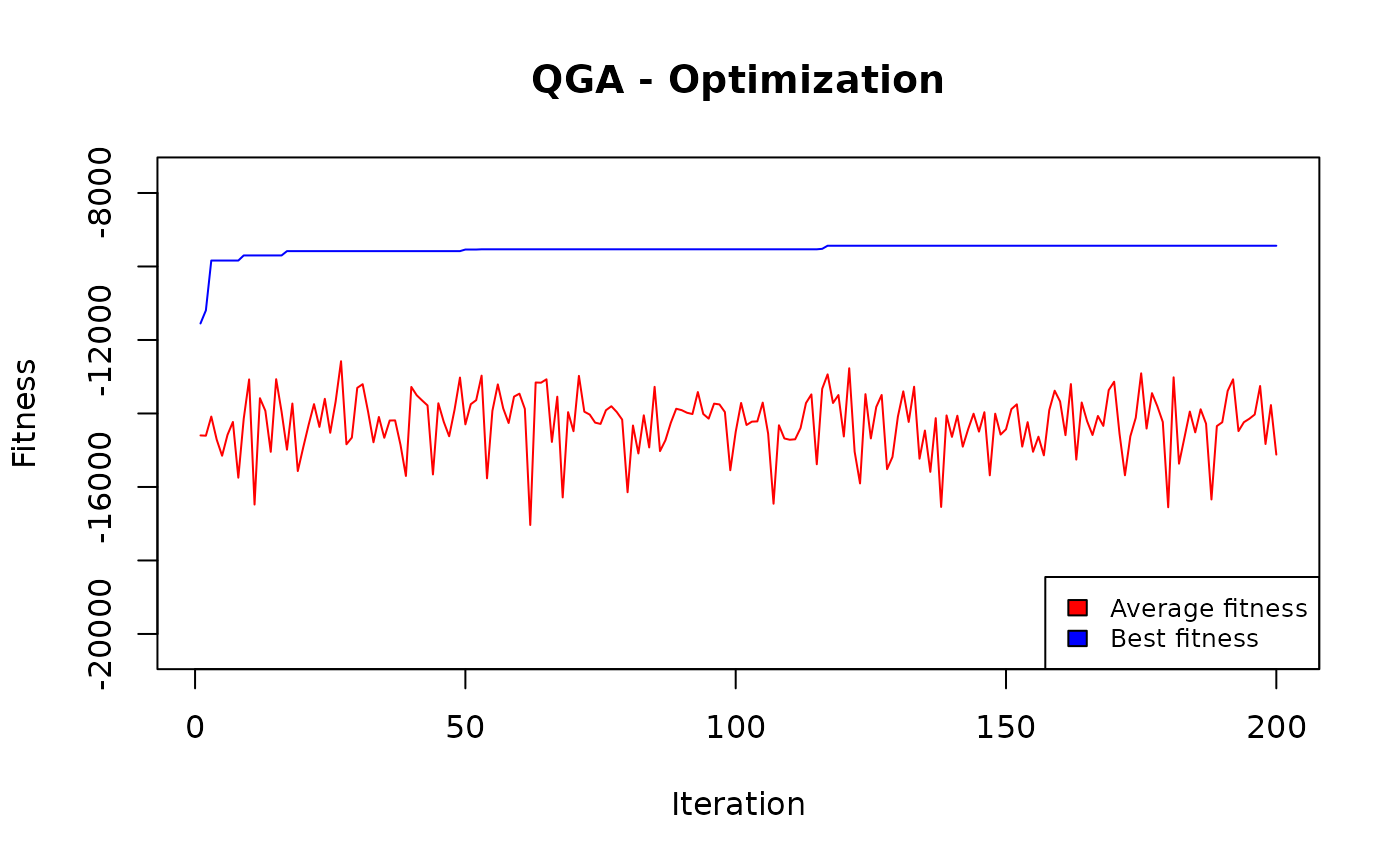
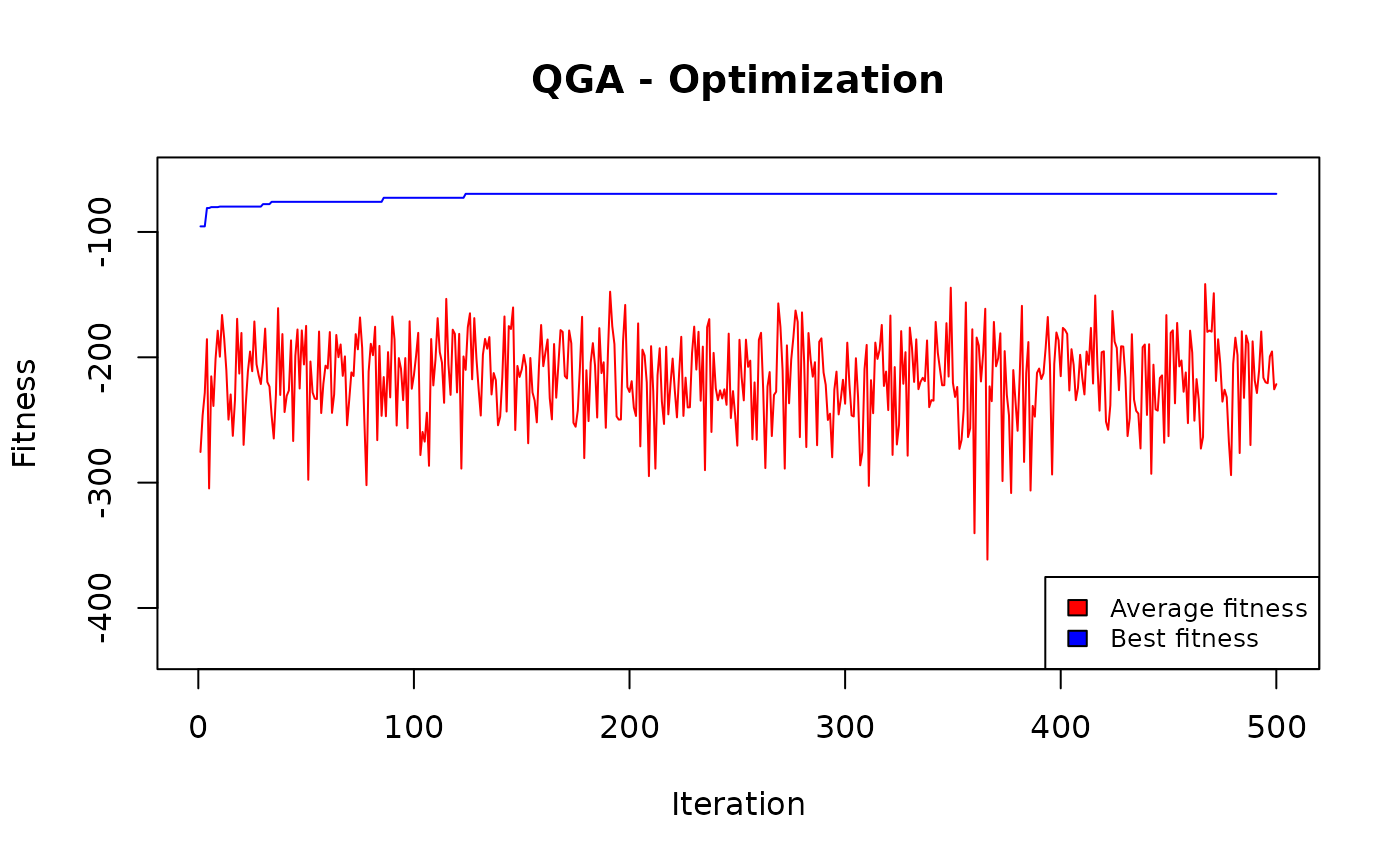
Deploying to gh-pages from @ barcaroli/QGA@d1e9675f5b2e3bba4c48c776dabdf5b6a2a9fc90 🚀

diff --git a/articles/airlines_hubs.html b/articles/airlines_hubs.html
@@ -85,7 +85,7 @@
                         <h4 data-toc-skip class="author">Giulio
 Barcaroli</h4>
             
-            <h4 data-toc-skip class="date">2024-08-31</h4>
+            <h4 data-toc-skip class="date">2024-09-07</h4>
       
       <small class="dont-index">Source: <a href="https://github.com/barcaroli/QGA/blob/main/vignettes/airlines_hubs.Rmd" class="external-link"><code>vignettes/airlines_hubs.Rmd</code></a></small>
       <div class="hidden name"><code>airlines_hubs.Rmd</code></div>
@@ -95,11 +95,8 @@ Barcaroli</h4>
     
     
 <p>In this example, we show how, With the Quantum Genetic Algorithm, it
-is possible to determine the most convenient hubs given a set of 25 USA
+is possible to determine the most convenient hubs, given a set of 25 USA
 airports.</p>
-<div class="section level3">
-<h3 id="input-data">Input data<a class="anchor" aria-label="anchor" href="#input-data"></a>
-</h3>
 <p>As input data, we consider the 25 airports, with their geographical
 coordinates:</p>
 <div class="sourceCode" id="cb1"><pre class="downlit sourceCode r">
@@ -193,42 +190,44 @@ destination airport. The second one is related to the flows:</p>
 <span><span class="co">##  $ V23: num  2704 3719 4284 13618 1067 ...</span></span>
 <span><span class="co">##  $ V24: num  12250 2015 8085 17580 4608 ...</span></span>
 <span><span class="co">##  $ V25: num  16132 565 51895 40708 7050 ...</span></span></code></pre>
-<p>that is, for each origin airport, the estimated number of passenger
+<p>that is, for each origin airport, the estimated number of passengers
 that want to reach the destination airport.</p>
-</div>
-<div class="section level3">
-<h3 id="optimization-by-costs-minimization">Optimization by costs minimization<a class="anchor" aria-label="anchor" href="#optimization-by-costs-minimization"></a>
-</h3>
-<p>As a first exercise, we will use the cost to determine which could be
-the 3 more convenient hubs for the 25 airports.</p>
+<p>We want to minimize the total cost of the optimal solution, to
+determine which could be the three more convenient hubs for the 25
+airports.</p>
 <p>This is the fitness function:</p>
 <div class="sourceCode" id="cb7"><pre class="downlit sourceCode r">
 <code class="sourceCode R"><span><span class="va">airline_hub</span> <span class="op">&lt;-</span> <span class="kw">function</span><span class="op">(</span><span class="va">solution</span>,<span class="va">input</span><span class="op">)</span> <span class="op">{</span></span>
-<span>  <span class="va">obj</span> <span class="op">&lt;-</span> <span class="op">-</span><span class="fu"><a href="https://rdrr.io/r/base/sum.html" class="external-link">sum</a></span><span class="op">(</span><span class="fu"><a href="https://rdrr.io/r/base/apply.html" class="external-link">apply</a></span><span class="op">(</span><span class="va">input</span><span class="op">[</span>,<span class="va">solution</span><span class="op">]</span>, <span class="fl">1</span>, <span class="va">min</span><span class="op">)</span><span class="op">)</span></span>
-<span>  <span class="co"># Penalization</span></span>
-<span>  <span class="co"># if (length(table(solution)) &lt; length(solution)) {</span></span>
-<span>  <span class="co">#  obj &lt;- sum(input)</span></span>
-<span>  <span class="co"># }</span></span>
+<span>  <span class="va">cost</span> <span class="op">&lt;-</span> <span class="va">input</span><span class="op">$</span><span class="va">cost</span></span>
+<span>  <span class="va">flow</span> <span class="op">&lt;-</span> <span class="va">input</span><span class="op">$</span><span class="va">flow</span></span>
+<span>  <span class="va">penalization</span> <span class="op">&lt;-</span> <span class="fu"><a href="https://rdrr.io/r/base/sum.html" class="external-link">sum</a></span><span class="op">(</span><span class="va">cost</span><span class="op">)</span><span class="op">*</span><span class="fl">0.0005</span></span>
+<span>  <span class="va">obj</span> <span class="op">&lt;-</span> <span class="op">-</span><span class="fu"><a href="https://rdrr.io/r/base/sum.html" class="external-link">sum</a></span><span class="op">(</span><span class="fu"><a href="https://rdrr.io/r/base/apply.html" class="external-link">apply</a></span><span class="op">(</span><span class="va">cost</span><span class="op">[</span>,<span class="va">solution</span><span class="op">]</span> <span class="op">*</span> <span class="va">flow</span><span class="op">[</span>,<span class="va">solution</span><span class="op">]</span>, <span class="fl">1</span>, <span class="va">min</span><span class="op">)</span><span class="op">)</span> <span class="op">/</span> <span class="fu"><a href="https://rdrr.io/r/base/sum.html" class="external-link">sum</a></span><span class="op">(</span><span class="va">cost</span><span class="op">)</span></span>
+<span>  <span class="kw">if</span> <span class="op">(</span><span class="fu"><a href="https://rdrr.io/r/base/length.html" class="external-link">length</a></span><span class="op">(</span><span class="fu"><a href="https://rdrr.io/r/base/table.html" class="external-link">table</a></span><span class="op">(</span><span class="va">solution</span><span class="op">)</span><span class="op">)</span> <span class="op">&lt;</span> <span class="fu"><a href="https://rdrr.io/r/base/length.html" class="external-link">length</a></span><span class="op">(</span><span class="va">solution</span><span class="op">)</span><span class="op">)</span> <span class="op">{</span></span>
+<span>    <span class="va">obj</span> <span class="op">&lt;-</span> <span class="va">obj</span> <span class="op">-</span> <span class="va">penalization</span></span>
+<span>  <span class="op">}</span></span>
+<span>  <span class="co"># cat("\nSolution:",solution,"  obj: ",obj)</span></span>
 <span>  <span class="kw"><a href="https://rdrr.io/r/base/function.html" class="external-link">return</a></span><span class="op">(</span><span class="va">obj</span><span class="op">)</span></span>
 <span><span class="op">}</span></span></code></pre></div>
-<p>This function will receive, as input, the cost matrix. The current
-solution, to be evaluated, will select the three columns corresponding
-to the three hubs, and calculate the sum of the costs for each origin
-airport to reach the hub, selecting the minimum. The minus sign is due
-to the fact that we want to minimize the value of the objective
-function.</p>
+<p>This function will receive, as input, the cost matrix and the flow
+matrix. The current solution, to be evaluated, will select the three
+columns corresponding to the three hubs, and calculate the sum of the
+costs for each origin airport to reach the hub, multiplied by the flows
+for each origin airport to reach the hub, selecting the minimum. The
+minus sign is due to the fact that we want to minimize the value of the
+objective function.</p>
 <p>We can now proceed with the optimization. Note that we set the value
 of the genome equal to 3 (the number of the desired hubs), and the
 number of the values to be attributed to each element of the genome is
 set equal to the number of the airports (25).</p>
 <div class="sourceCode" id="cb8"><pre class="downlit sourceCode r">
-<code class="sourceCode R"><span><span class="va">popsize</span> <span class="op">=</span> <span class="fl">20</span></span>
+<code class="sourceCode R"><span><span class="va">input</span> <span class="op">&lt;-</span> <span class="fu"><a href="https://rdrr.io/r/base/list.html" class="external-link">list</a></span><span class="op">(</span>cost<span class="op">=</span><span class="va">cost</span>,flow<span class="op">=</span><span class="va">flow</span><span class="op">)</span></span>
+<span><span class="va">popsize</span> <span class="op">=</span> <span class="fl">20</span></span>
 <span><span class="va">Genome</span> <span class="op">=</span> <span class="fl">3</span> <span class="co"># Number of desired hubs</span></span>
 <span><span class="va">nvalues_sol</span> <span class="op">=</span> <span class="fl">25</span></span>
 <span><span class="fu"><a href="https://rdrr.io/r/base/Random.html" class="external-link">set.seed</a></span><span class="op">(</span><span class="fl">4321</span><span class="op">)</span></span>
 <span><span class="va">solutionQGA</span> <span class="op">&lt;-</span> <span class="fu"><a href="../reference/QGA.html">QGA</a></span><span class="op">(</span></span>
 <span>                <span class="va">popsize</span>,</span>
-<span>                generation_max <span class="op">=</span> <span class="fl">200</span>,</span>
+<span>                generation_max <span class="op">=</span> <span class="fl">500</span>,</span>
 <span>                <span class="va">nvalues_sol</span>,</span>
 <span>                <span class="va">Genome</span>,</span>
 <span>                thetainit <span class="op">=</span> <span class="fl">3.1415926535</span> <span class="op">*</span> <span class="fl">0.025</span>,</span>
@@ -242,15 +241,15 @@ set equal to the number of the airports (25).</p>
 <span>                progress <span class="op">=</span> <span class="cn">FALSE</span>,</span>
 <span>                verbose <span class="op">=</span> <span class="cn">FALSE</span>,</span>
 <span>                eval_fitness <span class="op">=</span> <span class="va">airline_hub</span>,</span>
-<span>                eval_func_inputs <span class="op">=</span> <span class="va">cost</span><span class="op">)</span></span></code></pre></div>
+<span>                eval_func_inputs <span class="op">=</span> <span class="va">input</span><span class="op">)</span></span></code></pre></div>
 <pre><code><span><span class="co">## </span></span>
-<span><span class="co">##  *** Best fitness:  -9435.66</span></span></code></pre>
-<p><img src="airlines_hubs_files/figure-html/unnamed-chunk-5-1.png" width="700">
-The found solution:</p>
+<span><span class="co">##  *** Best fitness:  -69.59383</span></span></code></pre>
+<p><img src="airlines_hubs_files/figure-html/unnamed-chunk-5-1.png" width="700"></p>
+<p>The found solution:</p>
 <div class="sourceCode" id="cb10"><pre class="downlit sourceCode r">
 <code class="sourceCode R"><span><span class="va">solution</span> <span class="op">&lt;-</span> <span class="va">solutionQGA</span><span class="op">[[</span><span class="fl">1</span><span class="op">]</span><span class="op">]</span></span>
 <span><span class="va">cities</span><span class="op">$</span><span class="va">City</span><span class="op">[</span><span class="va">solution</span><span class="op">]</span></span></code></pre></div>
-<pre><code><span><span class="co">## [1] "MEM" "PIT" "LAX"</span></span></code></pre>
+<pre><code><span><span class="co">## [1] "LAX" "MEM" "PHL"</span></span></code></pre>
 <div class="sourceCode" id="cb12"><pre class="downlit sourceCode r">
 <code class="sourceCode R"><span><span class="va">sol</span> <span class="op">&lt;-</span> <span class="va">cost</span><span class="op">[</span>,<span class="va">solution</span><span class="op">]</span> </span>
 <span><span class="va">find_min_column</span> <span class="op">&lt;-</span> <span class="kw">function</span><span class="op">(</span><span class="va">row</span><span class="op">)</span> <span class="op">{</span></span>
@@ -258,20 +257,20 @@ The found solution:</p>
 <span><span class="op">}</span></span>
 <span><span class="va">min_column_vector</span> <span class="op">&lt;-</span> <span class="fu"><a href="https://rdrr.io/r/base/apply.html" class="external-link">apply</a></span><span class="op">(</span><span class="va">sol</span>, <span class="fl">1</span>, <span class="va">find_min_column</span><span class="op">)</span></span>
 <span><span class="fu"><a href="https://rdrr.io/r/base/print.html" class="external-link">print</a></span><span class="op">(</span><span class="va">min_column_vector</span><span class="op">)</span></span></code></pre></div>
-<pre><code><span><span class="co">##  [1] 1 2 2 2 2 2 1 3 2 1 1 3 1 1 1 1 2 2 3 2 1 3 3 1 2</span></span></code></pre>
+<pre><code><span><span class="co">##  [1] 2 3 3 2 2 3 2 1 3 2 2 1 2 2 2 2 3 3 1 3 2 1 1 2 3</span></span></code></pre>
 <div class="sourceCode" id="cb14"><pre class="downlit sourceCode r">
 <code class="sourceCode R"><span><span class="va">cities</span><span class="op">$</span><span class="va">Hub</span> <span class="op">&lt;-</span> <span class="va">cities</span><span class="op">$</span><span class="va">City</span><span class="op">[</span><span class="va">solution</span><span class="op">]</span><span class="op">[</span><span class="va">min_column_vector</span><span class="op">]</span></span>
 <span><span class="fu"><a href="https://rdrr.io/r/base/print.html" class="external-link">print</a></span><span class="op">(</span><span class="va">cities</span><span class="op">[</span>,<span class="fu"><a href="https://rdrr.io/r/base/c.html" class="external-link">c</a></span><span class="op">(</span><span class="fl">2</span>,<span class="fl">5</span><span class="op">)</span><span class="op">]</span><span class="op">)</span></span></code></pre></div>
 <pre><code><span><span class="co">##    City Hub</span></span>
 <span><span class="co">## 1   ATL MEM</span></span>
-<span><span class="co">## 2   BWI PIT</span></span>
-<span><span class="co">## 3   BOS PIT</span></span>
-<span><span class="co">## 4   ORD PIT</span></span>
-<span><span class="co">## 5   CVG PIT</span></span>
-<span><span class="co">## 6   CLE PIT</span></span>
+<span><span class="co">## 2   BWI PHL</span></span>
+<span><span class="co">## 3   BOS PHL</span></span>
+<span><span class="co">## 4   ORD MEM</span></span>
+<span><span class="co">## 5   CVG MEM</span></span>
+<span><span class="co">## 6   CLE PHL</span></span>
 <span><span class="co">## 7   DFW MEM</span></span>
 <span><span class="co">## 8   DEN LAX</span></span>
-<span><span class="co">## 9   DET PIT</span></span>
+<span><span class="co">## 9   DET PHL</span></span>
 <span><span class="co">## 10  IAH MEM</span></span>
 <span><span class="co">## 11  MCI MEM</span></span>
 <span><span class="co">## 12  LAX LAX</span></span>
@@ -279,15 +278,15 @@ The found solution:</p>
 <span><span class="co">## 14  MIA MEM</span></span>
 <span><span class="co">## 15  MSP MEM</span></span>
 <span><span class="co">## 16  MSY MEM</span></span>
-<span><span class="co">## 17  LGA PIT</span></span>
-<span><span class="co">## 18  PHL PIT</span></span>
+<span><span class="co">## 17  LGA PHL</span></span>
+<span><span class="co">## 18  PHL PHL</span></span>
 <span><span class="co">## 19  PHX LAX</span></span>
-<span><span class="co">## 20  PIT PIT</span></span>
+<span><span class="co">## 20  PIT PHL</span></span>
 <span><span class="co">## 21  STL MEM</span></span>
 <span><span class="co">## 22  SFO LAX</span></span>
 <span><span class="co">## 23  SEA LAX</span></span>
 <span><span class="co">## 24  TPA MEM</span></span>
-<span><span class="co">## 25  DCA PIT</span></span></code></pre>
+<span><span class="co">## 25  DCA PHL</span></span></code></pre>
 <p>We can plot them on a map:</p>
 <div class="sourceCode" id="cb16"><pre class="downlit sourceCode r">
 <code class="sourceCode R"><span><span class="kw">if</span> <span class="op">(</span><span class="op">!</span><span class="kw"><a href="https://rdrr.io/r/base/library.html" class="external-link">require</a></span><span class="op">(</span><span class="va"><a href="https://tidyverse.tidyverse.org" class="external-link">tidyverse</a></span><span class="op">)</span><span class="op">)</span> <span class="fu"><a href="https://rdrr.io/r/utils/install.packages.html" class="external-link">install.packages</a></span><span class="op">(</span><span class="st">"tidyverse"</span>, dependencies<span class="op">=</span><span class="cn">TRUE</span><span class="op">)</span></span>
@@ -325,109 +324,6 @@ The found solution:</p>
 <span>  <span class="fu"><a href="https://ggplot2.tidyverse.org/reference/theme.html" class="external-link">theme</a></span><span class="op">(</span>plot.title <span class="op">=</span> <span class="fu"><a href="https://ggplot2.tidyverse.org/reference/element.html" class="external-link">element_text</a></span><span class="op">(</span>hjust <span class="op">=</span> <span class="fl">0.5</span>, size <span class="op">=</span> <span class="fl">16</span>, face <span class="op">=</span> <span class="st">"bold"</span><span class="op">)</span><span class="op">)</span></span>
 <span><span class="fu"><a href="https://rdrr.io/r/base/print.html" class="external-link">print</a></span><span class="op">(</span><span class="va">gg</span><span class="op">)</span></span></code></pre></div>
 <p><img src="airlines_hubs_files/figure-html/unnamed-chunk-7-1.png" width="700"></p>
-</div>
-<div class="section level3">
-<h3 id="optimization-by-flows-maximization">Optimization by flows maximization<a class="anchor" aria-label="anchor" href="#optimization-by-flows-maximization"></a>
-</h3>
-<p>Alternatively, we can use the flows instead of the cost.</p>
-<p>To do that, we do not need to modify the fitness function, even if
-now we want to maximize the flows instead than minimizing the cost. We
-just need to consider the negative values of the flows:</p>
-<div class="sourceCode" id="cb17"><pre class="downlit sourceCode r">
-<code class="sourceCode R"><span><span class="fu"><a href="https://rdrr.io/r/base/Random.html" class="external-link">set.seed</a></span><span class="op">(</span><span class="fl">4321</span><span class="op">)</span></span>
-<span><span class="va">solutionQGA</span> <span class="op">&lt;-</span> <span class="fu"><a href="../reference/QGA.html">QGA</a></span><span class="op">(</span></span>
-<span>                <span class="va">popsize</span>,</span>
-<span>                generation_max <span class="op">=</span> <span class="fl">200</span>,</span>
-<span>                <span class="va">nvalues_sol</span>,</span>
-<span>                <span class="va">Genome</span>,</span>
-<span>                thetainit <span class="op">=</span> <span class="fl">3.1415926535</span> <span class="op">*</span> <span class="fl">0.025</span>,</span>
-<span>                thetaend <span class="op">=</span> <span class="fl">3.1415926535</span> <span class="op">*</span> <span class="fl">0.005</span>,</span>
-<span>                pop_mutation_rate_init <span class="op">=</span> <span class="fl">3</span><span class="op">/</span><span class="op">(</span><span class="va">popsize</span> <span class="op">+</span> <span class="fl">1</span><span class="op">)</span>,</span>
-<span>                pop_mutation_rate_end <span class="op">=</span> <span class="fl">1</span><span class="op">/</span><span class="op">(</span><span class="va">popsize</span> <span class="op">+</span> <span class="fl">1</span><span class="op">)</span>,</span>
-<span>                mutation_rate_init <span class="op">=</span> <span class="fl">3</span><span class="op">/</span><span class="op">(</span><span class="va">Genome</span> <span class="op">+</span> <span class="fl">1</span><span class="op">)</span>,</span>
-<span>                mutation_rate_end <span class="op">=</span> <span class="fl">1</span><span class="op">/</span><span class="op">(</span><span class="va">Genome</span> <span class="op">+</span> <span class="fl">1</span><span class="op">)</span>,</span>
-<span>                mutation_flag <span class="op">=</span> <span class="cn">TRUE</span>,</span>
-<span>                plotting <span class="op">=</span> <span class="cn">FALSE</span>,</span>
-<span>                progress <span class="op">=</span> <span class="cn">FALSE</span>,</span>
-<span>                verbose <span class="op">=</span> <span class="cn">FALSE</span>,</span>
-<span>                eval_fitness <span class="op">=</span> <span class="va">airline_hub</span>,</span>
-<span>                eval_func_inputs <span class="op">=</span> <span class="op">-</span><span class="va">flow</span><span class="op">)</span></span></code></pre></div>
-<pre><code><span><span class="co">## </span></span>
-<span><span class="co">##  *** Best fitness:  1762214</span></span></code></pre>
-<p><img src="airlines_hubs_files/figure-html/unnamed-chunk-8-1.png" width="700"></p>
-<p>The solution is:</p>
-<div class="sourceCode" id="cb19"><pre class="downlit sourceCode r">
-<code class="sourceCode R"><span><span class="va">solution</span> <span class="op">&lt;-</span> <span class="va">solutionQGA</span><span class="op">[[</span><span class="fl">1</span><span class="op">]</span><span class="op">]</span></span>
-<span><span class="va">cities</span><span class="op">$</span><span class="va">City</span><span class="op">[</span><span class="va">solution</span><span class="op">]</span></span></code></pre></div>
-<pre><code><span><span class="co">## [1] "LGA" "ORD" "LAX"</span></span></code></pre>
-<div class="sourceCode" id="cb21"><pre class="downlit sourceCode r">
-<code class="sourceCode R"><span><span class="va">sol</span> <span class="op">&lt;-</span> <span class="op">-</span><span class="va">flow</span><span class="op">[</span>,<span class="va">solution</span><span class="op">]</span> </span>
-<span><span class="va">find_min_column</span> <span class="op">&lt;-</span> <span class="kw">function</span><span class="op">(</span><span class="va">row</span><span class="op">)</span> <span class="op">{</span></span>
-<span>  <span class="fu"><a href="https://rdrr.io/r/base/which.min.html" class="external-link">which.min</a></span><span class="op">(</span><span class="va">row</span><span class="op">)</span></span>
-<span><span class="op">}</span></span>
-<span><span class="va">min_column_vector</span> <span class="op">&lt;-</span> <span class="fu"><a href="https://rdrr.io/r/base/apply.html" class="external-link">apply</a></span><span class="op">(</span><span class="va">sol</span>, <span class="fl">1</span>, <span class="va">find_min_column</span><span class="op">)</span></span>
-<span><span class="fu"><a href="https://rdrr.io/r/base/print.html" class="external-link">print</a></span><span class="op">(</span><span class="va">min_column_vector</span><span class="op">)</span></span></code></pre></div>
-<pre><code><span><span class="co">##  [1] 1 1 1 1 1 1 1 3 1 1 2 1 2 1 2 1 2 2 3 1 2 3 3 1 1</span></span></code></pre>
-<div class="sourceCode" id="cb23"><pre class="downlit sourceCode r">
-<code class="sourceCode R"><span><span class="va">cities</span><span class="op">$</span><span class="va">Hub</span> <span class="op">&lt;-</span> <span class="va">cities</span><span class="op">$</span><span class="va">City</span><span class="op">[</span><span class="va">solution</span><span class="op">]</span><span class="op">[</span><span class="va">min_column_vector</span><span class="op">]</span></span>
-<span><span class="fu"><a href="https://rdrr.io/r/base/print.html" class="external-link">print</a></span><span class="op">(</span><span class="va">cities</span><span class="op">[</span>,<span class="fu"><a href="https://rdrr.io/r/base/c.html" class="external-link">c</a></span><span class="op">(</span><span class="fl">2</span>,<span class="fl">5</span><span class="op">)</span><span class="op">]</span><span class="op">)</span></span></code></pre></div>
-<pre><code><span><span class="co">##    City Hub</span></span>
-<span><span class="co">## 1   ATL LGA</span></span>
-<span><span class="co">## 2   BWI LGA</span></span>
-<span><span class="co">## 3   BOS LGA</span></span>
-<span><span class="co">## 4   ORD LGA</span></span>
-<span><span class="co">## 5   CVG LGA</span></span>
-<span><span class="co">## 6   CLE LGA</span></span>
-<span><span class="co">## 7   DFW LGA</span></span>
-<span><span class="co">## 8   DEN LAX</span></span>
-<span><span class="co">## 9   DET LGA</span></span>
-<span><span class="co">## 10  IAH LGA</span></span>
-<span><span class="co">## 11  MCI ORD</span></span>
-<span><span class="co">## 12  LAX LGA</span></span>
-<span><span class="co">## 13  MEM ORD</span></span>
-<span><span class="co">## 14  MIA LGA</span></span>
-<span><span class="co">## 15  MSP ORD</span></span>
-<span><span class="co">## 16  MSY LGA</span></span>
-<span><span class="co">## 17  LGA ORD</span></span>
-<span><span class="co">## 18  PHL ORD</span></span>
-<span><span class="co">## 19  PHX LAX</span></span>
-<span><span class="co">## 20  PIT LGA</span></span>
-<span><span class="co">## 21  STL ORD</span></span>
-<span><span class="co">## 22  SFO LAX</span></span>
-<span><span class="co">## 23  SEA LAX</span></span>
-<span><span class="co">## 24  TPA LGA</span></span>
-<span><span class="co">## 25  DCA LGA</span></span></code></pre>
-<div class="sourceCode" id="cb25"><pre class="downlit sourceCode r">
-<code class="sourceCode R"><span><span class="va">connections</span> <span class="op">&lt;-</span> <span class="va">cities</span> <span class="op"><a href="https://magrittr.tidyverse.org/reference/pipe.html" class="external-link">%&gt;%</a></span></span>
-<span>  <span class="fu"><a href="https://dplyr.tidyverse.org/reference/mutate-joins.html" class="external-link">left_join</a></span><span class="op">(</span><span class="va">cities</span> <span class="op"><a href="https://magrittr.tidyverse.org/reference/pipe.html" class="external-link">%&gt;%</a></span> <span class="fu"><a href="https://dplyr.tidyverse.org/reference/select.html" class="external-link">select</a></span><span class="op">(</span><span class="va">City</span>, <span class="va">Lat</span>, <span class="va">Long</span><span class="op">)</span>, by <span class="op">=</span> <span class="fu"><a href="https://rdrr.io/r/base/c.html" class="external-link">c</a></span><span class="op">(</span><span class="st">"Hub"</span> <span class="op">=</span> <span class="st">"City"</span><span class="op">)</span><span class="op">)</span> <span class="op"><a href="https://magrittr.tidyverse.org/reference/pipe.html" class="external-link">%&gt;%</a></span></span>
-<span>  <span class="fu"><a href="https://dplyr.tidyverse.org/reference/rename.html" class="external-link">rename</a></span><span class="op">(</span>Hub_Lat <span class="op">=</span> <span class="va">Lat.y</span>, Hub_Long <span class="op">=</span> <span class="va">Long.y</span><span class="op">)</span> <span class="op"><a href="https://magrittr.tidyverse.org/reference/pipe.html" class="external-link">%&gt;%</a></span></span>
-<span>  <span class="fu"><a href="https://dplyr.tidyverse.org/reference/select.html" class="external-link">select</a></span><span class="op">(</span><span class="va">City</span>, Lat <span class="op">=</span> <span class="va">Lat.x</span>, Long <span class="op">=</span> <span class="va">Long.x</span>, <span class="va">Hub</span>, <span class="va">Hub_Lat</span>, <span class="va">Hub_Long</span><span class="op">)</span></span>
-<span><span class="va">hubs</span> <span class="op">&lt;-</span> <span class="fu"><a href="https://rdrr.io/r/base/unique.html" class="external-link">unique</a></span><span class="op">(</span><span class="va">cities</span><span class="op">$</span><span class="va">Hub</span><span class="op">)</span></span>
-<span><span class="va">hub_connections</span> <span class="op">&lt;-</span> <span class="fu"><a href="https://rdrr.io/r/base/expand.grid.html" class="external-link">expand.grid</a></span><span class="op">(</span>Hub1 <span class="op">=</span> <span class="va">hubs</span>, Hub2 <span class="op">=</span> <span class="va">hubs</span>, stringsAsFactors <span class="op">=</span> <span class="cn">FALSE</span><span class="op">)</span> <span class="op"><a href="https://magrittr.tidyverse.org/reference/pipe.html" class="external-link">%&gt;%</a></span></span>
-<span>  <span class="fu"><a href="https://dplyr.tidyverse.org/reference/filter.html" class="external-link">filter</a></span><span class="op">(</span><span class="va">Hub1</span> <span class="op">&lt;</span> <span class="va">Hub2</span><span class="op">)</span> <span class="op"><a href="https://magrittr.tidyverse.org/reference/pipe.html" class="external-link">%&gt;%</a></span>  <span class="co"># Evita duplicati e auto-connessioni</span></span>
-<span>  <span class="fu"><a href="https://dplyr.tidyverse.org/reference/mutate-joins.html" class="external-link">left_join</a></span><span class="op">(</span><span class="va">cities</span> <span class="op"><a href="https://magrittr.tidyverse.org/reference/pipe.html" class="external-link">%&gt;%</a></span> <span class="fu"><a href="https://dplyr.tidyverse.org/reference/select.html" class="external-link">select</a></span><span class="op">(</span><span class="va">City</span>, <span class="va">Lat</span>, <span class="va">Long</span><span class="op">)</span>, by <span class="op">=</span> <span class="fu"><a href="https://rdrr.io/r/base/c.html" class="external-link">c</a></span><span class="op">(</span><span class="st">"Hub1"</span> <span class="op">=</span> <span class="st">"City"</span><span class="op">)</span><span class="op">)</span> <span class="op"><a href="https://magrittr.tidyverse.org/reference/pipe.html" class="external-link">%&gt;%</a></span></span>
-<span>  <span class="fu"><a href="https://dplyr.tidyverse.org/reference/rename.html" class="external-link">rename</a></span><span class="op">(</span>Lat1 <span class="op">=</span> <span class="va">Lat</span>, Long1 <span class="op">=</span> <span class="va">Long</span><span class="op">)</span> <span class="op"><a href="https://magrittr.tidyverse.org/reference/pipe.html" class="external-link">%&gt;%</a></span></span>
-<span>  <span class="fu"><a href="https://dplyr.tidyverse.org/reference/mutate-joins.html" class="external-link">left_join</a></span><span class="op">(</span><span class="va">cities</span> <span class="op"><a href="https://magrittr.tidyverse.org/reference/pipe.html" class="external-link">%&gt;%</a></span> <span class="fu"><a href="https://dplyr.tidyverse.org/reference/select.html" class="external-link">select</a></span><span class="op">(</span><span class="va">City</span>, <span class="va">Lat</span>, <span class="va">Long</span><span class="op">)</span>, by <span class="op">=</span> <span class="fu"><a href="https://rdrr.io/r/base/c.html" class="external-link">c</a></span><span class="op">(</span><span class="st">"Hub2"</span> <span class="op">=</span> <span class="st">"City"</span><span class="op">)</span><span class="op">)</span> <span class="op"><a href="https://magrittr.tidyverse.org/reference/pipe.html" class="external-link">%&gt;%</a></span></span>
-<span>  <span class="fu"><a href="https://dplyr.tidyverse.org/reference/rename.html" class="external-link">rename</a></span><span class="op">(</span>Lat2 <span class="op">=</span> <span class="va">Lat</span>, Long2 <span class="op">=</span> <span class="va">Long</span><span class="op">)</span></span>
-<span><span class="va">usa_map</span> <span class="op">&lt;-</span> <span class="fu"><a href="https://ggplot2.tidyverse.org/reference/map_data.html" class="external-link">map_data</a></span><span class="op">(</span><span class="st">"state"</span><span class="op">)</span></span>
-<span><span class="va">gg</span> <span class="op">&lt;-</span> <span class="fu"><a href="https://ggplot2.tidyverse.org/reference/ggplot.html" class="external-link">ggplot</a></span><span class="op">(</span><span class="op">)</span> <span class="op">+</span></span>
-<span>  <span class="fu"><a href="https://ggplot2.tidyverse.org/reference/geom_polygon.html" class="external-link">geom_polygon</a></span><span class="op">(</span>data <span class="op">=</span> <span class="va">usa_map</span>, <span class="fu"><a href="https://ggplot2.tidyverse.org/reference/aes.html" class="external-link">aes</a></span><span class="op">(</span>x <span class="op">=</span> <span class="va">long</span>, y <span class="op">=</span> <span class="va">lat</span>, group <span class="op">=</span> <span class="va">group</span><span class="op">)</span>, fill <span class="op">=</span> <span class="st">"white"</span>, color <span class="op">=</span> <span class="st">"black"</span><span class="op">)</span> <span class="op">+</span></span>
-<span>  <span class="fu"><a href="https://ggplot2.tidyverse.org/reference/coord_fixed.html" class="external-link">coord_fixed</a></span><span class="op">(</span><span class="fl">1.3</span><span class="op">)</span> <span class="op">+</span></span>
-<span>  <span class="fu"><a href="https://ggplot2.tidyverse.org/reference/lims.html" class="external-link">xlim</a></span><span class="op">(</span><span class="op">-</span><span class="fl">125</span>, <span class="op">-</span><span class="fl">66</span><span class="op">)</span> <span class="op">+</span> <span class="fu"><a href="https://ggplot2.tidyverse.org/reference/lims.html" class="external-link">ylim</a></span><span class="op">(</span><span class="fl">25</span>, <span class="fl">50</span><span class="op">)</span></span>
-<span><span class="va">gg</span> <span class="op">&lt;-</span> <span class="va">gg</span> <span class="op">+</span> <span class="fu"><a href="https://ggplot2.tidyverse.org/reference/geom_segment.html" class="external-link">geom_segment</a></span><span class="op">(</span>data <span class="op">=</span> <span class="va">connections</span>, </span>
-<span>                        <span class="fu"><a href="https://ggplot2.tidyverse.org/reference/aes.html" class="external-link">aes</a></span><span class="op">(</span>x <span class="op">=</span> <span class="va">Long</span>, y <span class="op">=</span> <span class="va">Lat</span>, xend <span class="op">=</span> <span class="va">Hub_Long</span>, yend <span class="op">=</span> <span class="va">Hub_Lat</span><span class="op">)</span>,</span>
-<span>                        color <span class="op">=</span> <span class="st">"blue"</span>, alpha <span class="op">=</span> <span class="fl">0.5</span>, size <span class="op">=</span> <span class="fl">1</span><span class="op">)</span></span>
-<span><span class="va">gg</span> <span class="op">&lt;-</span> <span class="va">gg</span> <span class="op">+</span> <span class="fu"><a href="https://ggplot2.tidyverse.org/reference/geom_segment.html" class="external-link">geom_segment</a></span><span class="op">(</span>data <span class="op">=</span> <span class="va">hub_connections</span>,</span>
-<span>                        <span class="fu"><a href="https://ggplot2.tidyverse.org/reference/aes.html" class="external-link">aes</a></span><span class="op">(</span>x <span class="op">=</span> <span class="va">Long1</span>, y <span class="op">=</span> <span class="va">Lat1</span>, xend <span class="op">=</span> <span class="va">Long2</span>, yend <span class="op">=</span> <span class="va">Lat2</span><span class="op">)</span>,</span>
-<span>                        color <span class="op">=</span> <span class="st">"red"</span>, alpha <span class="op">=</span> <span class="fl">0.7</span>, size <span class="op">=</span> <span class="fl">1</span><span class="op">)</span></span>
-<span><span class="va">gg</span> <span class="op">&lt;-</span> <span class="va">gg</span> <span class="op">+</span> <span class="fu"><a href="https://ggplot2.tidyverse.org/reference/geom_point.html" class="external-link">geom_point</a></span><span class="op">(</span>data <span class="op">=</span> <span class="va">cities</span>, <span class="fu"><a href="https://ggplot2.tidyverse.org/reference/aes.html" class="external-link">aes</a></span><span class="op">(</span>x <span class="op">=</span> <span class="va">Long</span>, y <span class="op">=</span> <span class="va">Lat</span><span class="op">)</span>, color <span class="op">=</span> <span class="st">"blue"</span>, size <span class="op">=</span> <span class="fl">2</span><span class="op">)</span></span>
-<span><span class="va">gg</span> <span class="op">&lt;-</span> <span class="va">gg</span> <span class="op">+</span> <span class="fu"><a href="https://ggplot2.tidyverse.org/reference/geom_point.html" class="external-link">geom_point</a></span><span class="op">(</span>data <span class="op">=</span> <span class="va">cities</span><span class="op">[</span><span class="va">solution</span>,<span class="op">]</span>, <span class="fu"><a href="https://ggplot2.tidyverse.org/reference/aes.html" class="external-link">aes</a></span><span class="op">(</span>x <span class="op">=</span> <span class="va">Long</span>, y <span class="op">=</span> <span class="va">Lat</span><span class="op">)</span>, color <span class="op">=</span> <span class="st">"red"</span>, size <span class="op">=</span> <span class="fl">3</span><span class="op">)</span></span>
-<span><span class="va">gg</span> <span class="op">&lt;-</span> <span class="va">gg</span> <span class="op">+</span> <span class="fu"><a href="https://ggplot2.tidyverse.org/reference/geom_text.html" class="external-link">geom_text</a></span><span class="op">(</span>data <span class="op">=</span> <span class="va">cities</span>, <span class="fu"><a href="https://ggplot2.tidyverse.org/reference/aes.html" class="external-link">aes</a></span><span class="op">(</span>x <span class="op">=</span> <span class="va">Long</span>, y <span class="op">=</span> <span class="va">Lat</span>, label <span class="op">=</span> <span class="va">City</span><span class="op">)</span>, hjust <span class="op">=</span> <span class="fl">1</span>, vjust <span class="op">=</span> <span class="fl">1</span>, size <span class="op">=</span> <span class="fl">3</span><span class="op">)</span></span>
-<span><span class="va">gg</span> <span class="op">&lt;-</span> <span class="va">gg</span> <span class="op">+</span> <span class="fu"><a href="https://ggplot2.tidyverse.org/reference/labs.html" class="external-link">ggtitle</a></span><span class="op">(</span><span class="st">"Airlines hubs (flows maximization)"</span><span class="op">)</span> <span class="op">+</span></span>
-<span>  <span class="fu"><a href="https://ggplot2.tidyverse.org/reference/theme.html" class="external-link">theme</a></span><span class="op">(</span>plot.title <span class="op">=</span> <span class="fu"><a href="https://ggplot2.tidyverse.org/reference/element.html" class="external-link">element_text</a></span><span class="op">(</span>hjust <span class="op">=</span> <span class="fl">0.5</span>, size <span class="op">=</span> <span class="fl">16</span>, face <span class="op">=</span> <span class="st">"bold"</span><span class="op">)</span><span class="op">)</span></span>
-<span><span class="fu"><a href="https://rdrr.io/r/base/print.html" class="external-link">print</a></span><span class="op">(</span><span class="va">gg</span><span class="op">)</span></span></code></pre></div>
-<p><img src="airlines_hubs_files/figure-html/unnamed-chunk-10-1.png" width="700"></p>
-</div>
   </div>
 
   <div class="col-md-3 hidden-xs hidden-sm" id="pkgdown-sidebar">

diff --git a/articles/functionMax.html b/articles/functionMax.html
@@ -85,7 +85,7 @@
                         <h4 data-toc-skip class="author">Giulio
 Barcaroli</h4>
             
-            <h4 data-toc-skip class="date">2024-08-31</h4>
+            <h4 data-toc-skip class="date">2024-09-07</h4>
       
       <small class="dont-index">Source: <a href="https://github.com/barcaroli/QGA/blob/main/vignettes/functionMax.Rmd" class="external-link"><code>vignettes/functionMax.Rmd</code></a></small>
       <div class="hidden name"><code>functionMax.Rmd</code></div>

diff --git a/articles/QGA.html b/articles/QGA.html
@@ -85,7 +85,7 @@
                         <h4 data-toc-skip class="author">Giulio
 Barcaroli</h4>
             
-            <h4 data-toc-skip class="date">2024-08-31</h4>
+            <h4 data-toc-skip class="date">2024-09-07</h4>
       
       <small class="dont-index">Source: <a href="https://github.com/barcaroli/QGA/blob/main/vignettes/QGA.Rmd" class="external-link"><code>vignettes/QGA.Rmd</code></a></small>
       <div class="hidden name"><code>QGA.Rmd</code></div>
